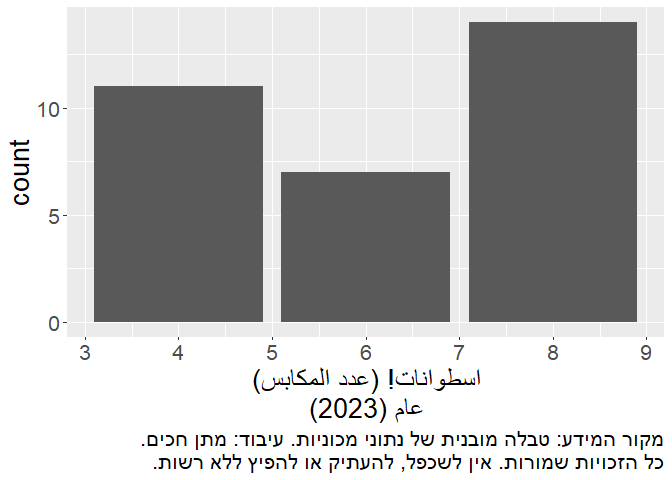
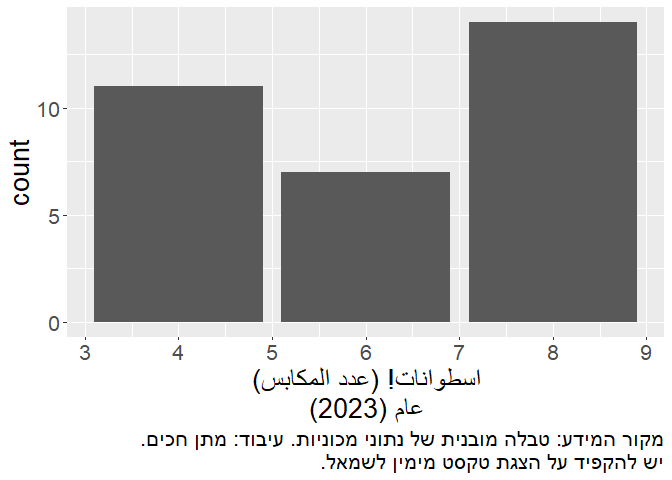
Fix typos and change content of caption

Changed region(s): [[0.2188, 0.9375, 1.0, 1.0]]

diff --git a/README.md b/README.md
@@ -31,7 +31,8 @@ Hebrew is written right-to-left, so punctuation marks (such as “,” or
 ``` r
 library(rtlr)
 x <- "הנקודה צריכה להיות בסוף המשפט."
-# `x` says "the dot should come at the end of the sentance." in Hebrew.
+# `x` says in Hebrew:
+# "the dot should come at the end of the sentance."
 
 cat(x)
 #> הנקודה צריכה להיות בסוף המשפט.
@@ -68,6 +69,8 @@ ggplot(mtcars, aes(cyl)) +
   geom_bar() +
   labs(
     x = str_rtl("اسطوانات!")
+    # `x` in `labs()` says in Arabic:
+    # "cylinders!"
   )
 ```
 
@@ -78,9 +81,9 @@ Now the exclamation mark is on the left-hand side, like it should.
 Additionally, sometimes you wish to break up lines within a plot. The
 easiest way to do it is by pasting `\n`, but this results yet again with
 a problem in the location of non-RTL characters. Notice how the
-parentheses on the top `xlab()` row are correctly placed on the left
-side, but the parantheses on the bottom row are wrongly placed on the
-right side.
+parentheses on the top row of `x` in `labs()` are correctly placed on
+the left side, but the parentheses on the bottom row are wrongly placed
+on the right side.
 
 ``` r
 ggplot(mtcars, aes(cyl)) +
@@ -122,10 +125,10 @@ ggplot(mtcars, aes(cyl)) +
     # `x` in `labs()` says in Arabic:
     # "cylinders! (The number of pistons)"
     # "Year (2023)"
-    caption = "מקור המידע: טבלה מובנית של נתוני מכוניות. עיבוד: מתן חכים. כל הזכויות שמורות. אין לשכפל, להעתיק או להפיץ ללא רשות."
+    caption = "מקור המידע: טבלה מובנית של נתוני מכוניות. עיבוד: מתן חכים. כל הזכויות שמורות. יש להקפיד על הצגת טקסט מימין לשמאל."
     # `caption` says in Hebrew:
     # "Source of data: a built-in data frame of car data. Analysis: Matan Hakim."
-    # "All rights reserved. Do not reproduce, copy or distribute without permission."
+    # "You should insist on showing your text right-to-left."
   )
 ```
 
@@ -134,7 +137,7 @@ ggplot(mtcars, aes(cyl)) +
 We have two problems here:
 
 1.  The caption gets cut off in the middle;
-2.  The dot in the end of the sentance is placed wrongly on the right
+2.  The dot in the end of the sentence is placed wrongly on the right
     side, while it should be on the left.
 
 This can again be easily solved using the `multiline = TRUE` argument:
@@ -149,16 +152,16 @@ ggplot(mtcars, aes(cyl)) +
     # "Year (2023)"
     caption = str_rtl(
       "מקור המידע: טבלה מובנית של נתוני מכוניות. עיבוד: מתן חכים.",
-      "כל הזכויות שמורות. אין לשכפל, להעתיק או להפיץ ללא רשות.",
+      "יש להקפיד על הצגת טקסט מימין לשמאל.",
       multiline = TRUE
     )
     # `caption` says in Hebrew:
     # "Source of data: a built-in data frame of car data. Analysis: Matan Hakim."
-    # "All rights reserved. Do not reproduce, copy or distribute without permission."
+    # "You should insist on showing your text right-to-left."
   )
 ```
 
 <img src="man/figures/README-plot_6-1.png" width="50%" />
 
-Notice how the lines are split with now overflow, and how the final dot
+Notice how the lines are split with no overflow, and how the final dot
 is placed on the left side, where it should be.
